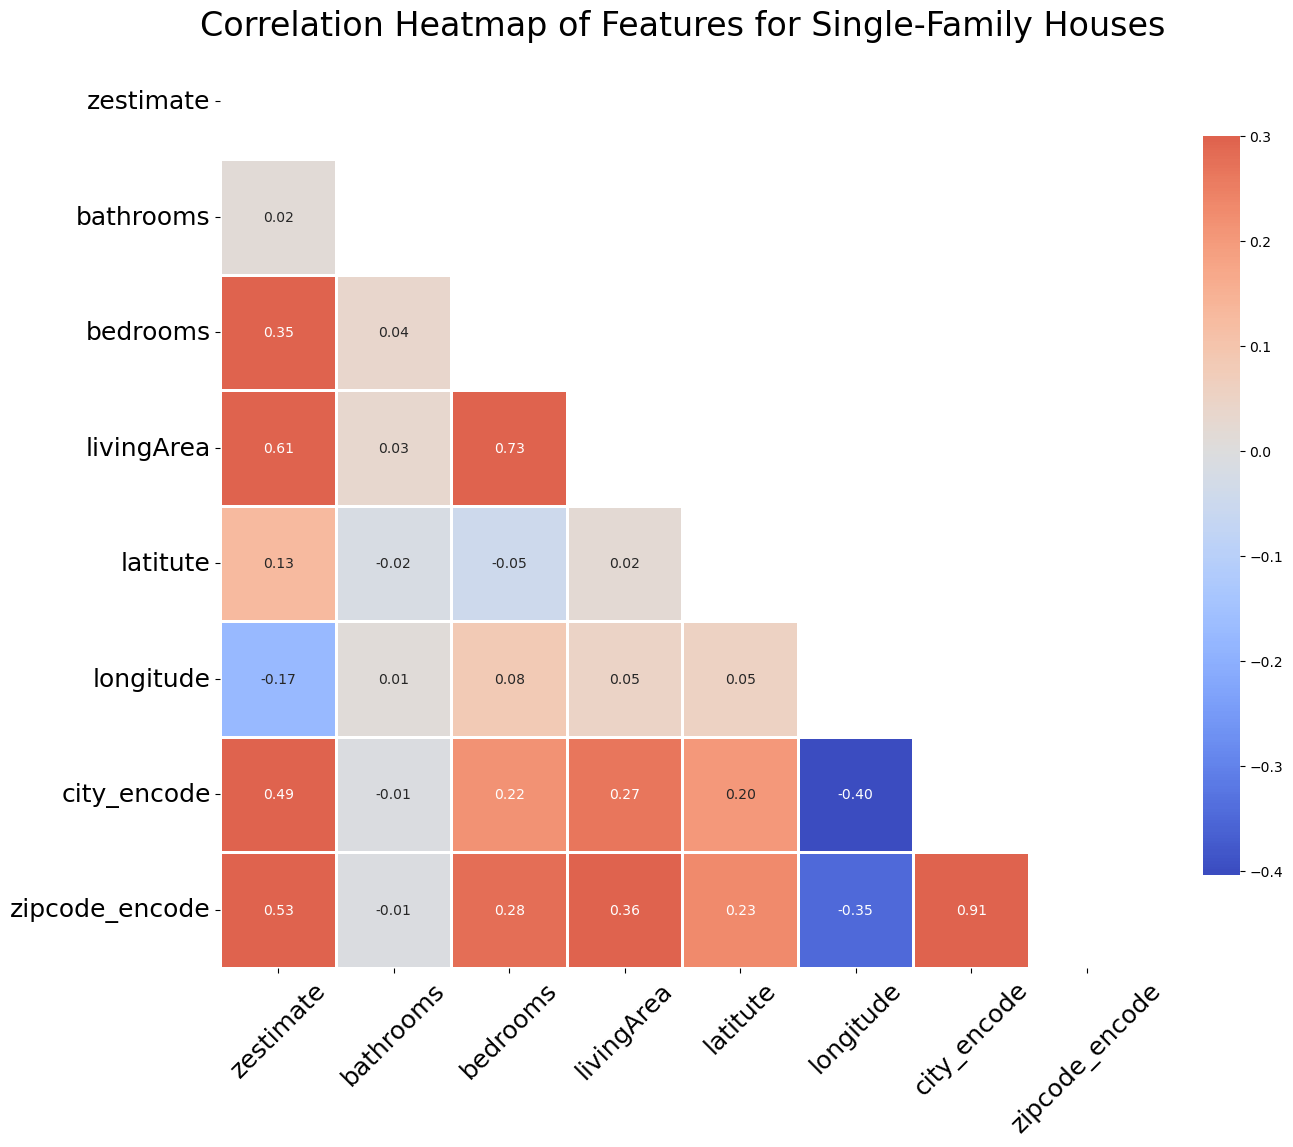
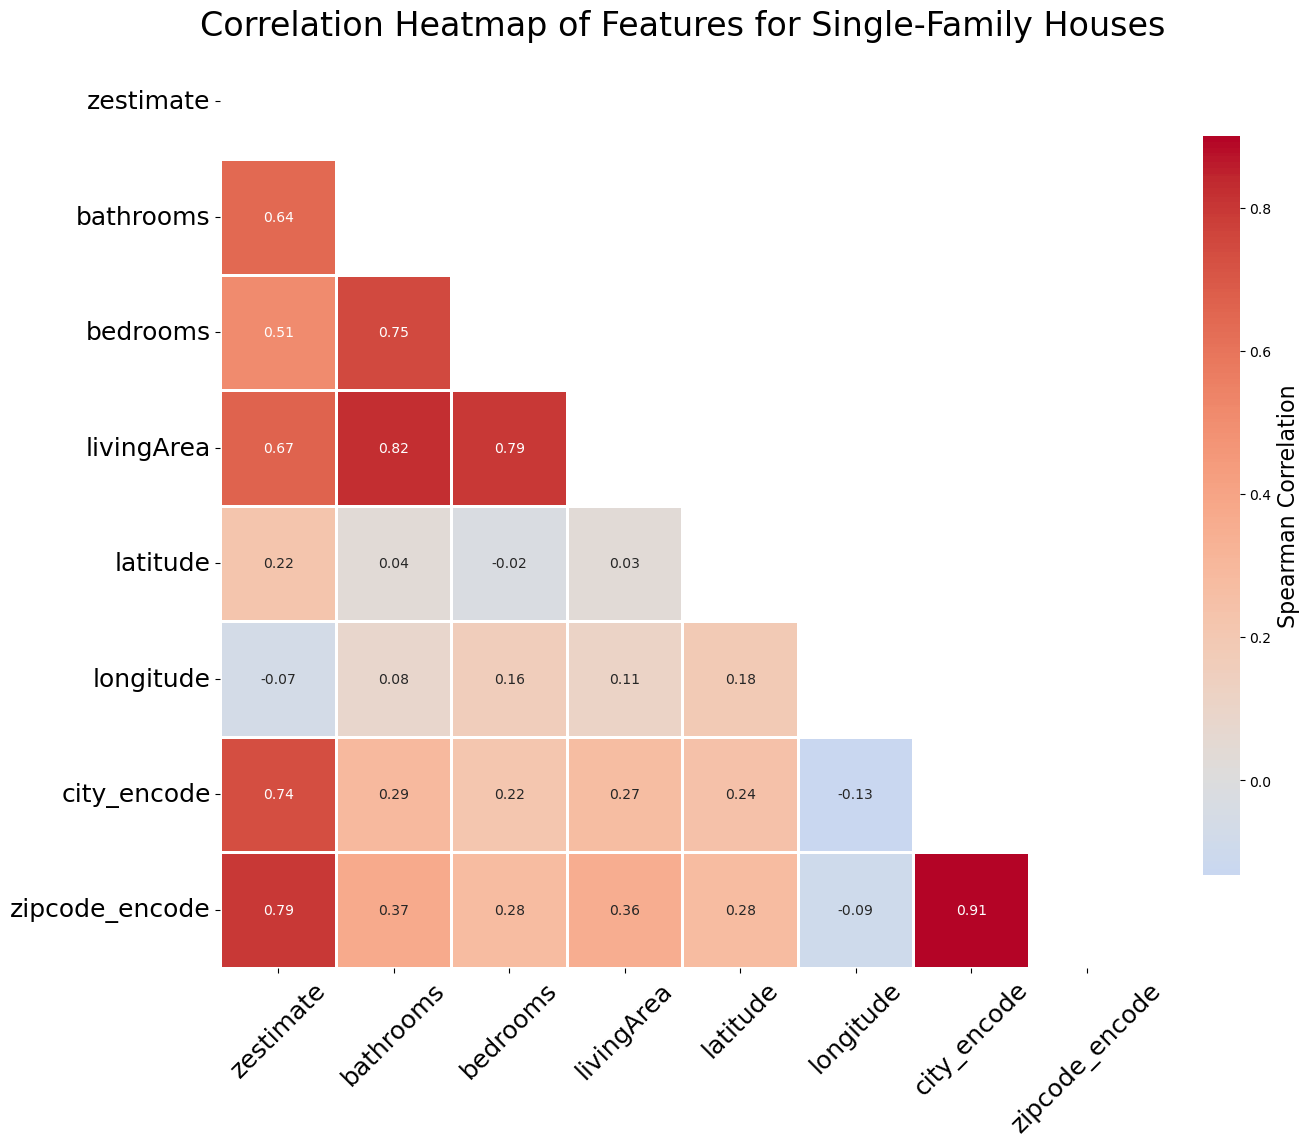
Updated Heat Maps

diff --git a/price/correlation.html b/price/correlation.html
@@ -6412,7 +6412,7 @@
             }
 
             body {
-                font-family: Arial, sans-serif;
+                font-family: 'Times New Roman', serif; 
                 margin: 0;
                 padding: 0;
                 background-color: #f4f4f4;
@@ -6466,15 +6466,13 @@
             <div class="row">
                 <div class="col">
                     <h1>Correlation Analysis</h1>
-                    <p>In the Yillow Project, we dive deep into understanding
-                        the interplay of various features in our housing data. Here,
-                        we focus on exploring the correlation between different attributes, excluding price, 
-                        to discover hidden patterns and intricate relationships that might affect the housing market dynamics. </p>    
-    
+                    <p> The next step in our data analyses is to explore the correlations between price and the main seven features of our dataset: 
+                        longitude, latitude, living area, bedrooms, bathrooms, zipcode, and city. Furthermore, I think it would also be 
+                        interesting to see how the Zestimate is affected by these. </p>
                     <p>Correlation analysis is a statistical technique used to understand the strength and direction 
-                        of the relationship between two variables. In this case, we analyze the features of the houses 
-                        in our dataset, excluding price. By understanding these correlations, we can better understand how
-                        features are interconnected, helping us create more nuanced and accurate predictive models. </p>
+                        of the relationship between two variables. For our purposes, the correlation metric we're going to use to measure correlation is 
+                        the Spearman correlation. The reason we're using Spearman and not Pearson is because the Pearson coefficient makes certain assumptions
+                        about the data, like it being normally distributed and having linear relationships, while the Spearman correlation doesn't. </p>
                 </div>
             </div>
     

diff --git a/price/geography.html b/price/geography.html
@@ -6502,7 +6502,7 @@
             <div class="row">
                 <div class="col">
                     <h2>Feel Free to Explore the Maps Yourself!</h2>
-                    <p>In this short section, I drew a similar conclusion to that I found on the Feature Importance page - 
+                    <p>In this short section, I drew a similar conclusion to that I found on the Feature Correlation page - 
                         Single Family Homes seem to be more dependent on zip code/what city they are in compared to 
                         Manufactured Homes. However, I think that exploring the maps yourself will give you the most insight as to how
                         these prices depend with geography. </p>
